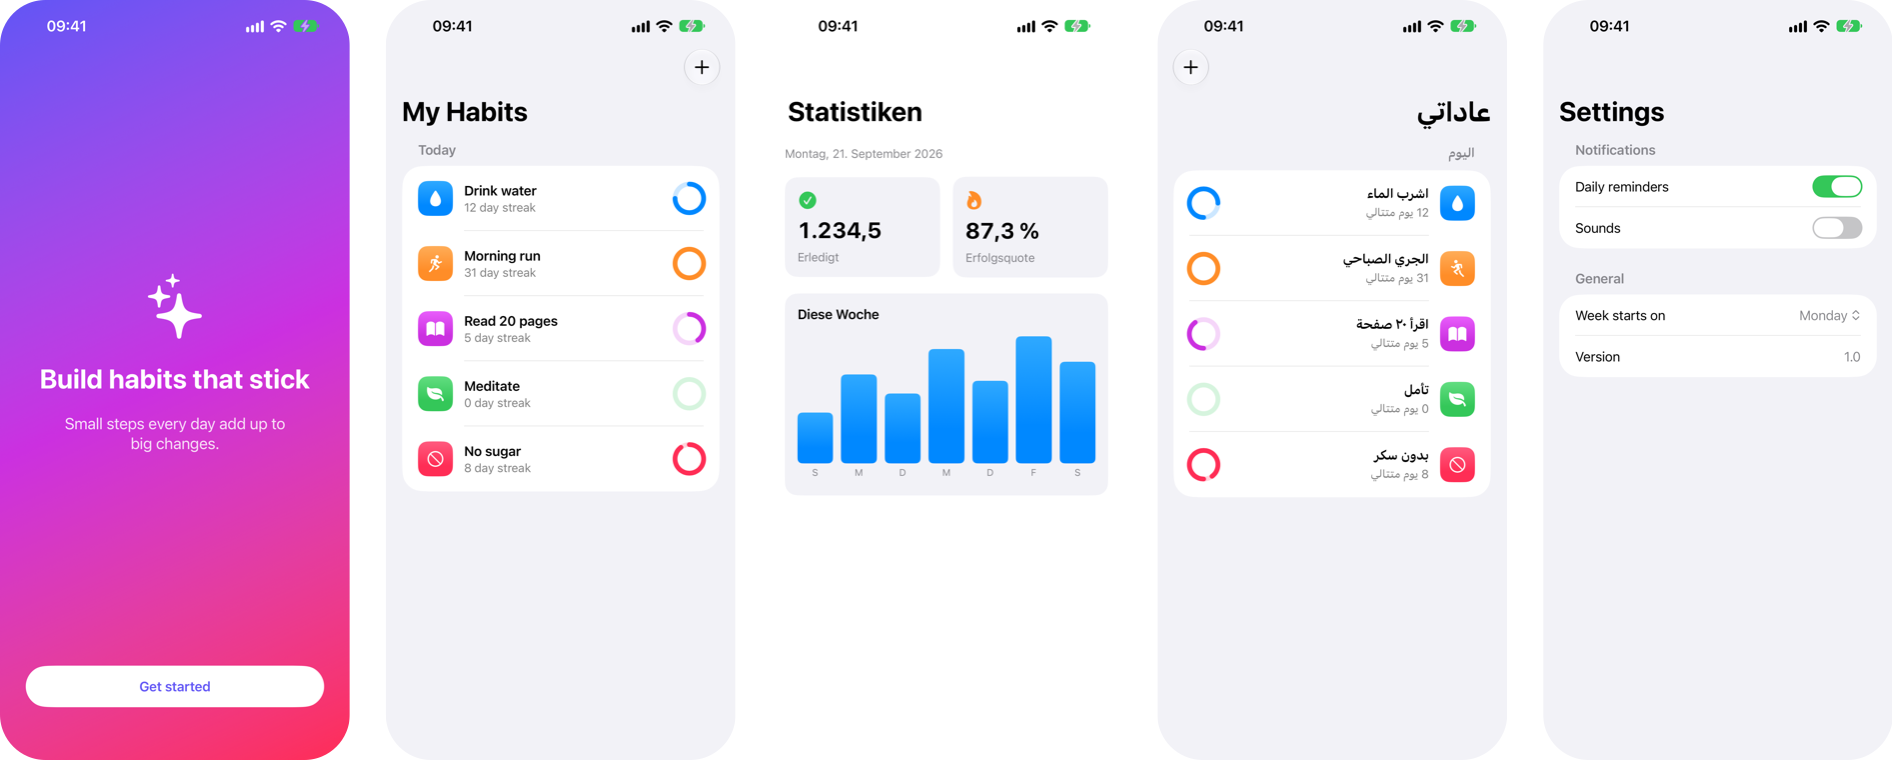
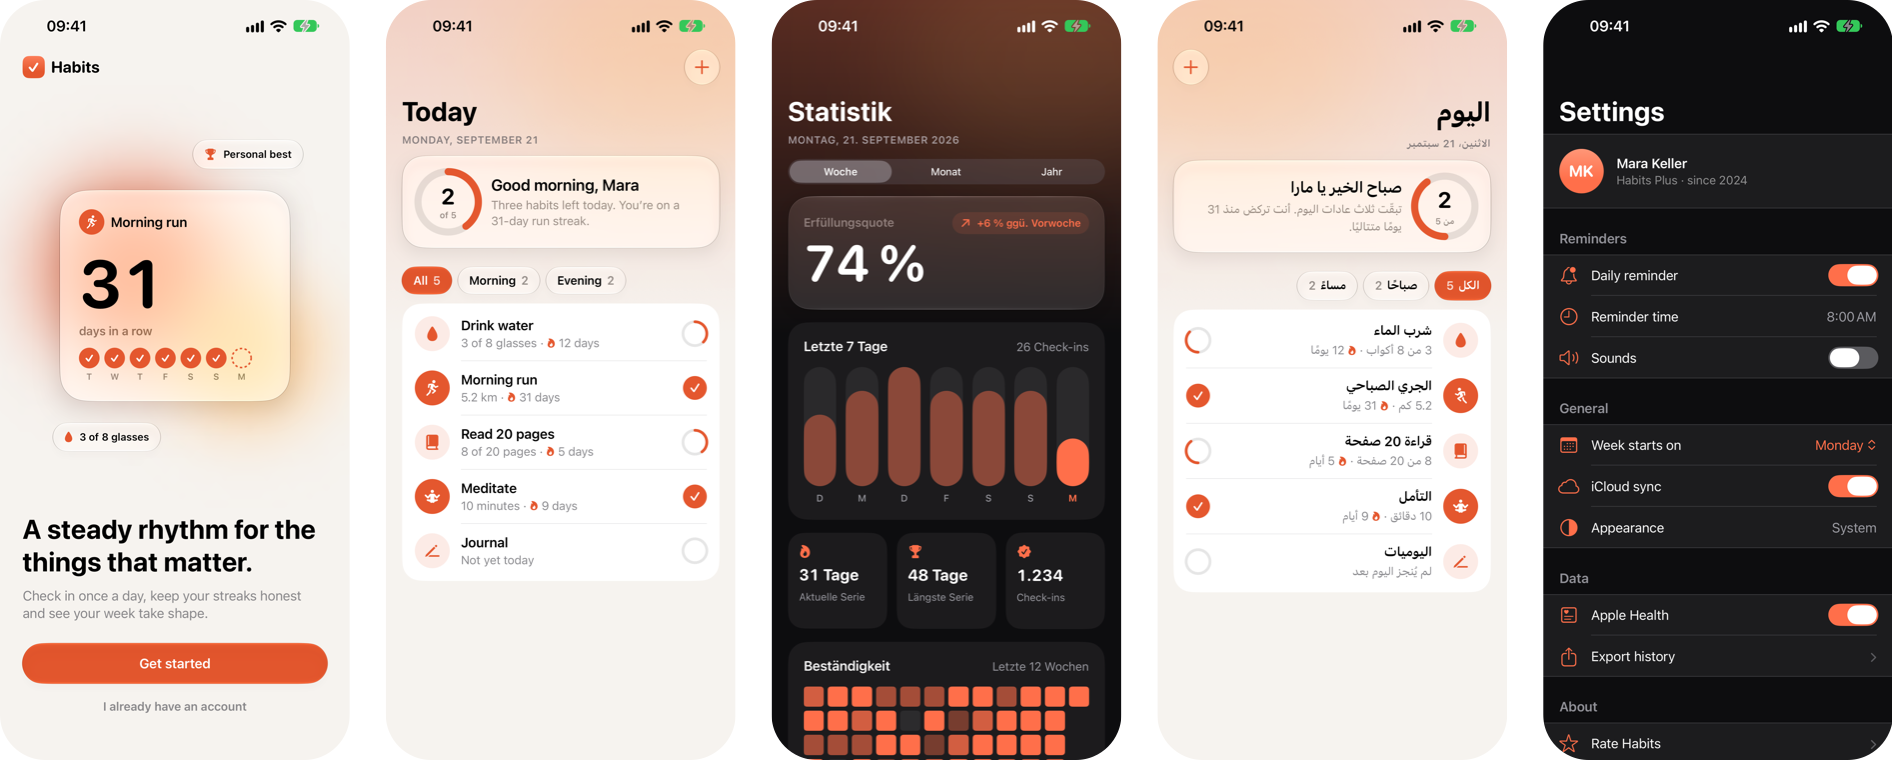
Release 0.2.0 (#10)
- README showcase with the redesigned demo app (unframed)
- Device frames wiki page: an App Store mode example
- Version references 0.1.3 → 0.2.0
- Release notes: docs/releases/v0.2.0.md

diff --git a/docs/releases/v0.2.0.md b/docs/releases/v0.2.0.md
@@ -1,8 +1,5 @@
-- Device frames from Apple's Product Bezels: `--frame` (plain) and `--frame appstore` (App Store size, background, localized title).
-- `swiftshot frame <dir>` frames an existing screenshot folder, like `fastlane frameit`.
-- Reads frameit's `Framefile.json`, `title.strings` and `keyword.strings`.
-- `--frame-color`, `--framefile`, `--frame-background`, `--frame-output`, `--frame-cache`, `--accept-bezel-license`, and `frame=` in `--screen` rules.
+- Device frames from Apple's Product Bezels. `--frame` puts the screenshot into the device; `--frame appstore` makes App Store-sized images with a background and a localized title.
+- `swiftshot frame <dir>` frames an existing folder, like `fastlane frameit`, and reads frameit's `Framefile.json`, `title.strings` and `keyword.strings`.
 - App Store frames are named `<name>_framed.png`, so `fastlane deliver` uploads them.
-- Bezels are downloaded from Apple on first use and cached. Swiftshot does not ship them.
-- `--clear` deletes only images, so `.strings` files and a `Framefile.json` in language folders stay.
-- The gallery shows the framed version of each screenshot when there is one.
+- Bezels are downloaded from Apple on first use. Swiftshot doesn't ship them.
+- `--clear` deletes only images, so `.strings` files and a `Framefile.json` stay.

diff --git a/docs/wiki/CI.md b/docs/wiki/CI.md
@@ -9,9 +9,9 @@ jobs:
     runs-on: xcode-27
     steps:
       - uses: actions/checkout@v4
-      - uses: LukasAnda/swiftshot@v0.1.3
+      - uses: LukasAnda/swiftshot@v0.2.0
         with:
-          version: 0.1.3
+          version: 0.2.0
       - uses: actions/upload-artifact@v4
         with:
           name: screenshots
@@ -28,7 +28,7 @@ Several iOS versions: the runner image ships a few runtimes. Missing ones can be
 `--download-missing-runtimes` (adds several minutes).
 
 ```yaml
-      - uses: LukasAnda/swiftshot@v0.1.3
+      - uses: LukasAnda/swiftshot@v0.2.0
         with:
           args: --ios 26.5,27.1 --download-missing-runtimes
 ```
@@ -56,7 +56,7 @@ Accept Apple's bezel license with a flag, and cache the downloaded bezels betwee
 ## Other CI
 
 ```
-curl -fsSL https://raw.githubusercontent.com/LukasAnda/swiftshot/main/install.sh | SWIFTSHOT_VERSION=0.1.3 sh
+curl -fsSL https://raw.githubusercontent.com/LukasAnda/swiftshot/main/install.sh | SWIFTSHOT_VERSION=0.2.0 sh
 ~/.swiftshot/bin/swiftshot run --download-missing-runtimes
 ```
 

diff --git a/README.md b/README.md
@@ -86,9 +86,9 @@ jobs:
     runs-on: xcode-27
     steps:
       - uses: actions/checkout@v4
-      - uses: LukasAnda/swiftshot@v0.1.3
+      - uses: LukasAnda/swiftshot@v0.2.0
         with:
-          version: 0.1.3      # or "latest"
+          version: 0.2.0      # or "latest"
           # args: --devices "iPhone 17 Pro Max" --languages en-US,de-DE
       - uses: actions/upload-artifact@v4
         with:
@@ -102,7 +102,7 @@ Use `working-directory` if the project is not at the repo root.
 Other CI:
 
 ```
-curl -fsSL https://raw.githubusercontent.com/LukasAnda/swiftshot/main/install.sh | SWIFTSHOT_VERSION=0.1.3 sh
+curl -fsSL https://raw.githubusercontent.com/LukasAnda/swiftshot/main/install.sh | SWIFTSHOT_VERSION=0.2.0 sh
 ~/.swiftshot/bin/swiftshot run --download-missing-runtimes
 ```
 

diff --git a/docs/wiki/Device-frames.md b/docs/wiki/Device-frames.md
@@ -5,6 +5,8 @@ Swiftshot puts screenshots into Apple's official device bezels, the
 resources. It has two modes: plain frames for websites and press kits, and App Store screenshots
 with a background and a localized title.
 
+![App Store mode in English, German and Arabic, on iPhone 17 Pro Max and iPad Pro 13-inch](images/frames-appstore.png)
+
 ```
 swiftshot --frame                          # render, then frame (plain)
 swiftshot --frame appstore                 # render, then App Store screenshots

diff --git a/docs/wiki/Installation.md b/docs/wiki/Installation.md
@@ -14,7 +14,7 @@ export PATH="$HOME/.swiftshot/bin:$PATH"
 
 | variable | default | |
 |---|---|---|
-| `SWIFTSHOT_VERSION` | latest | release to install, e.g. `0.1.3` |
+| `SWIFTSHOT_VERSION` | latest | release to install, e.g. `0.2.0` |
 | `SWIFTSHOT_PREFIX` | `~/.swiftshot` | install location |
 
 The script downloads `swiftshot-macos-arm64.tar.gz` from the
